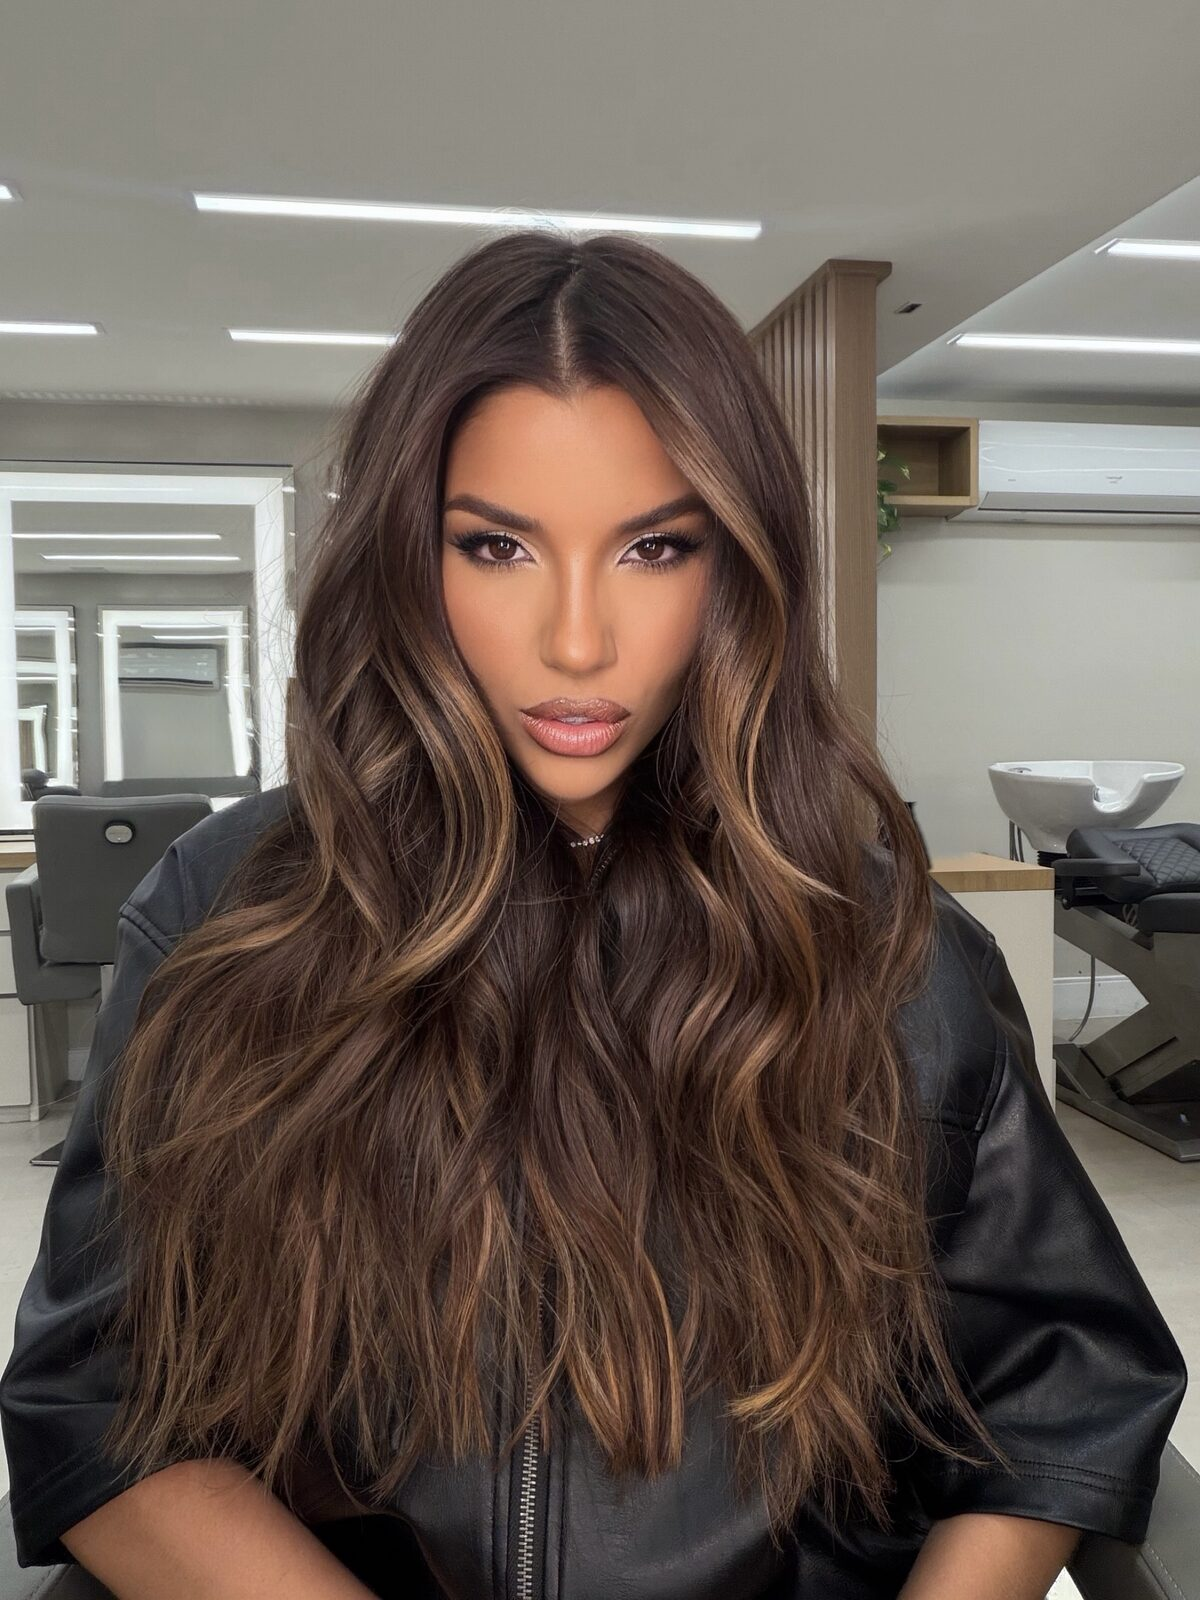
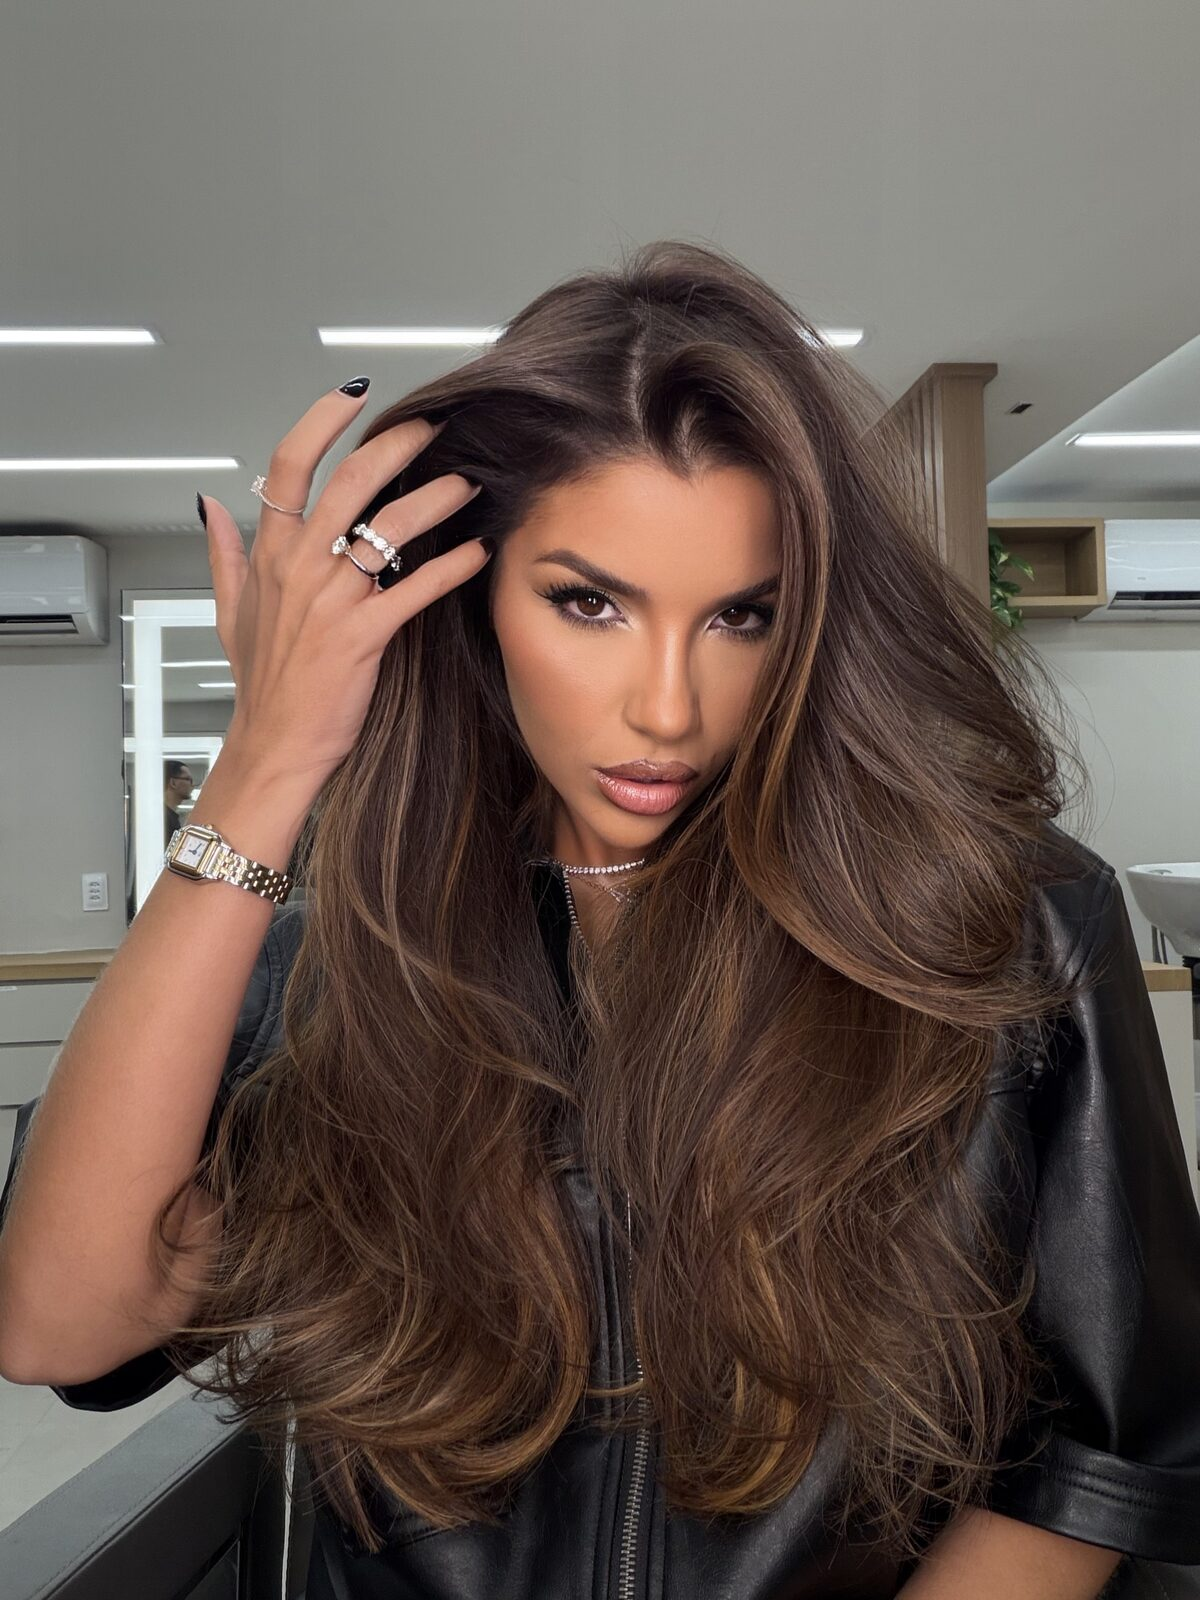
Trocar duas fotos do portfólio por versões otimizadas.

diff --git a/site/src/components/Portfolio.tsx b/site/src/components/Portfolio.tsx
@@ -53,7 +53,7 @@ const items: Item[] = [
   },
   {
     src: "/media/noiva-sorriso-01.jpg",
-    alt: "Noiva sorrindo com vestido de renda",
+    alt: "Retrato com ondas suaves e maquiagem iluminada",
     category: "Noivas & Eventos",
   },
   {
